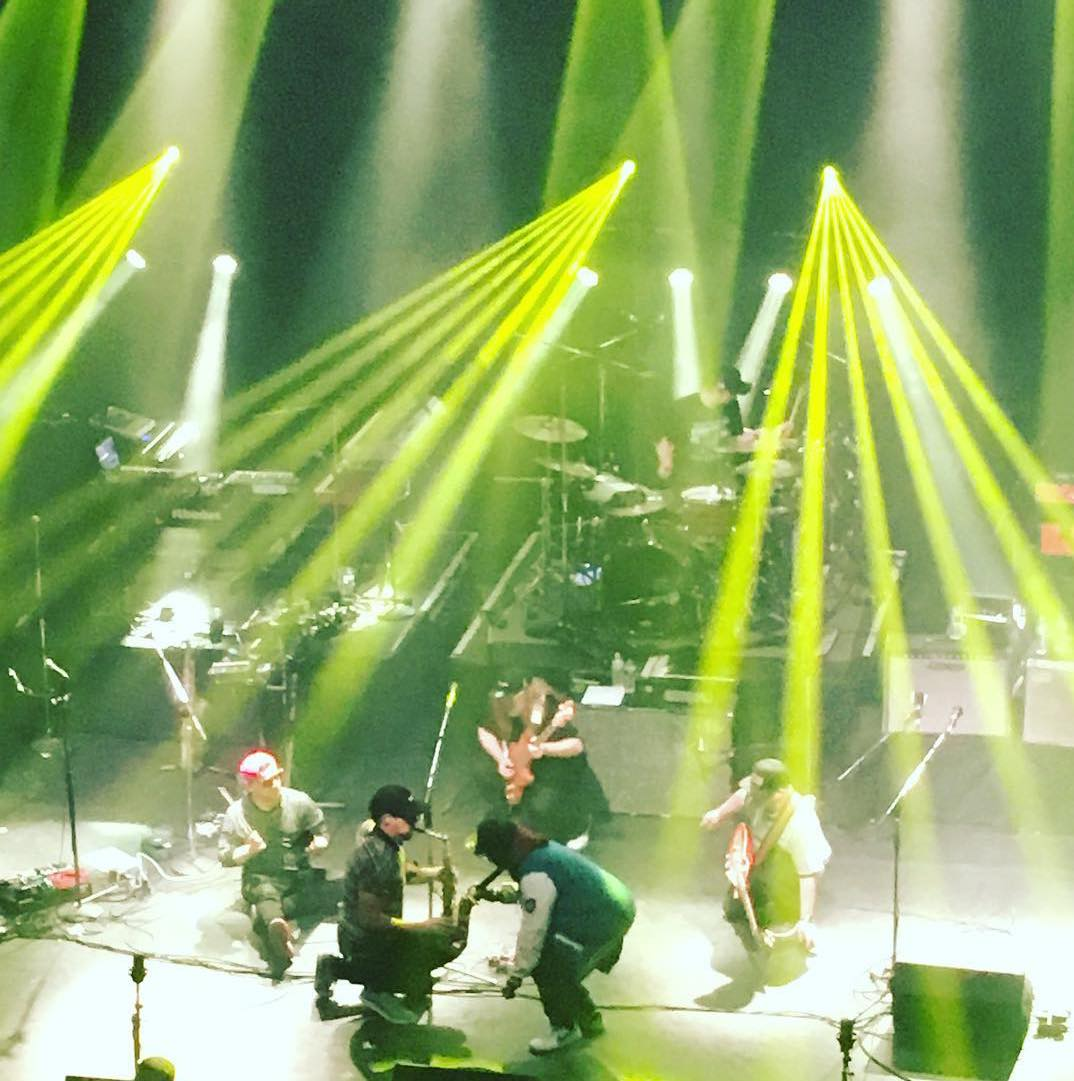
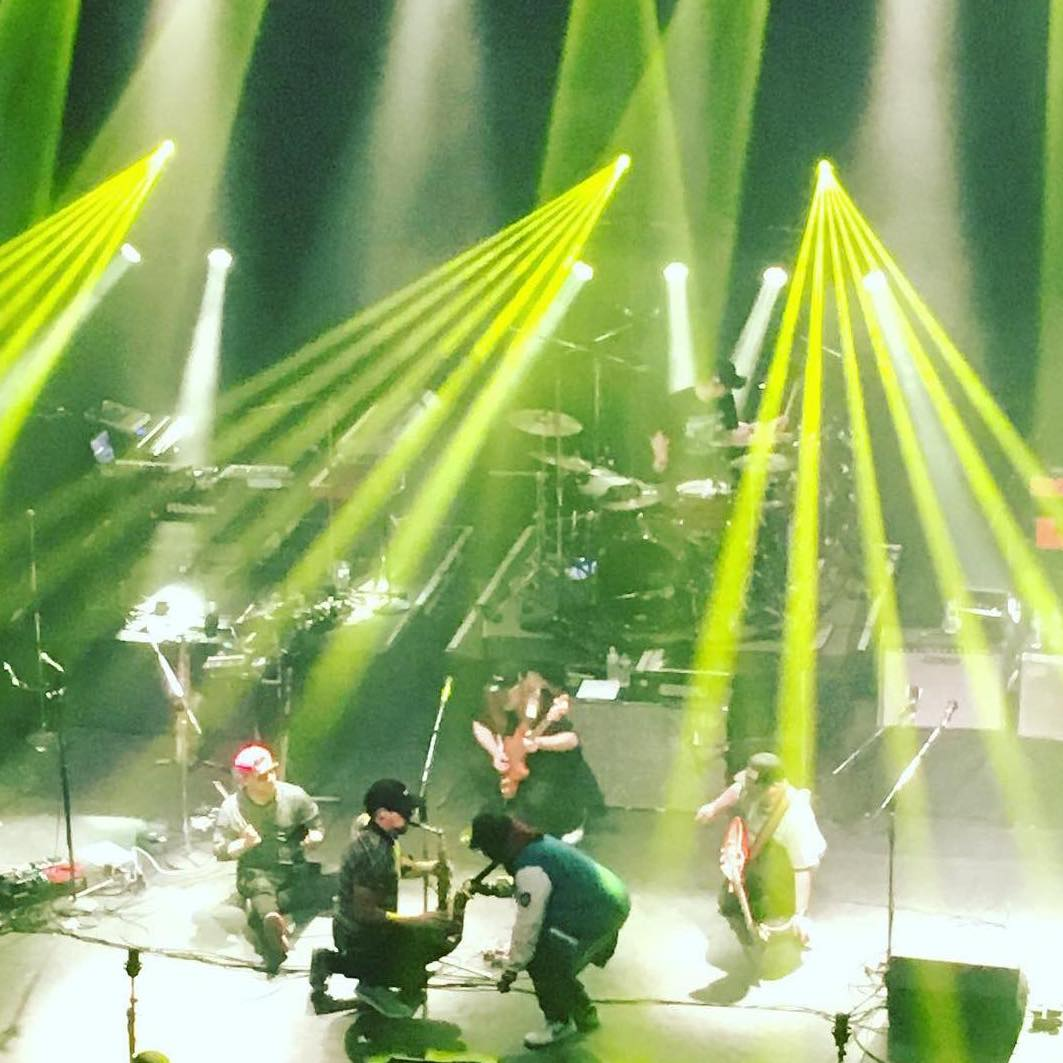
sytling and a photo resize

diff --git a/src/PhotoGrid.js b/src/PhotoGrid.js
@@ -28,6 +28,9 @@ const shuffle = (array) => {
 let images = importAll(require.context('./static/photography', false, /\.(png|jpe?g|svg)$/));
 shuffle(images)
 
+//Disable scrolling on PhotoGrid
+document.body.style.overflow = "hidden"
+
 const PhotoGrid = () => {
 
   const [innerWidth, setInnerWidth ] = useState(window.innerWidth);
@@ -74,15 +77,15 @@ const PhotoGrid = () => {
 
   const calcNumPhotosToShow = (width) => {
     if (width > 1275) {
-      return 18;
+      return 24;
     } else if (width > 1020) {
-      return 15;
+      return 20;
     } else if (width > 765) {
-      return 12;
+      return 16;
     } else if (width > 510) {
-      return 9;
+      return 12;
     } else {
-      return 6;
+      return 8;
     }
   }
 
@@ -97,7 +100,7 @@ const PhotoGrid = () => {
     <div className="grid-container">
       {photosToShow.map((p,i) => {
         return (
-          <div key={i} onMouseOver={() => handlePhotoChange(i)} className="grid-item">
+          <div key={i} onMouseOut={() => handlePhotoChange(i)} className="grid-item">
             <img src={p} alt="alt text" />
           </div>)
       })}
